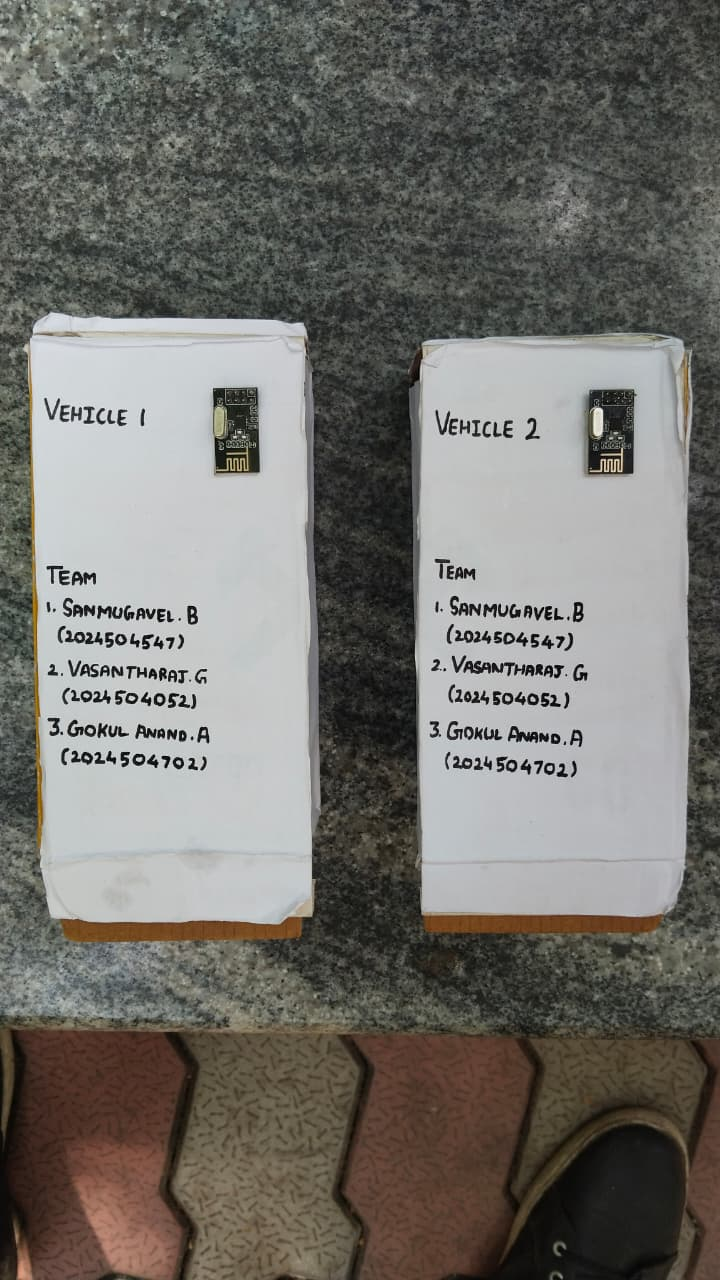
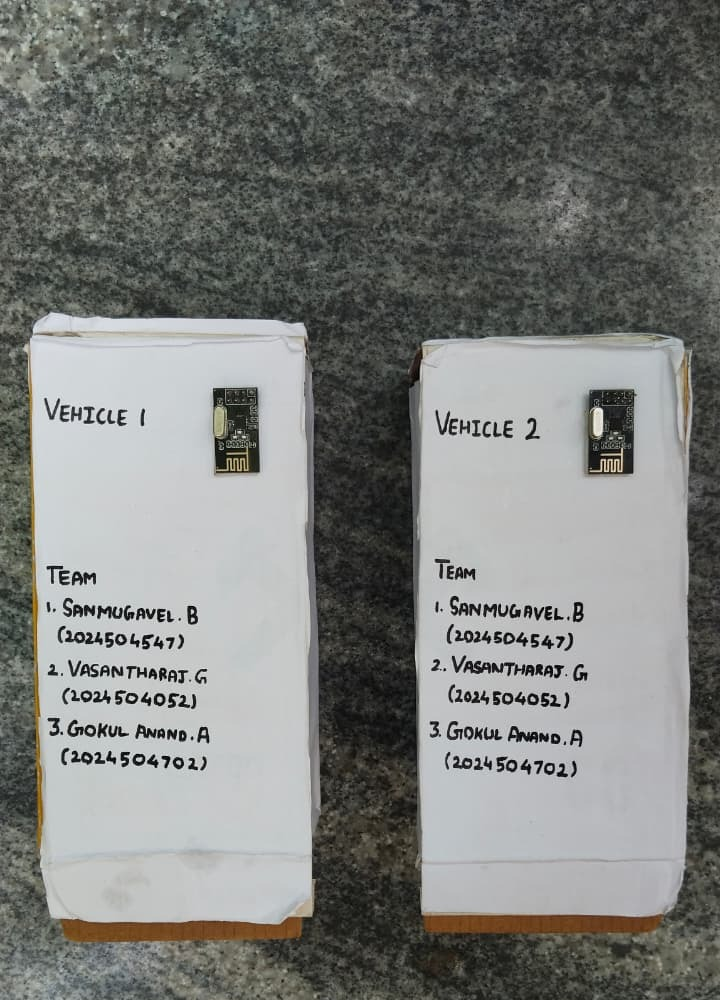
Tidy README photo gallery and crop closed-units-top photo

diff --git a/README.md b/README.md
@@ -38,19 +38,20 @@ On a hairpin bend, the hill hides each driver from the other. This project gives
 
 ### Project photos
 
-**Assembled units**
+<table>
+  <tr>
+    <td align="center"><img src="docs/images/hardware/closed-units-front.jpg" width="260" alt="Both closed units from the front"><br><sub>Front view</sub></td>
+    <td align="center"><img src="docs/images/hardware/closed-units-angle-1.jpg" width="260" alt="Closed units from an angle"><br><sub>Angle view</sub></td>
+    <td align="center"><img src="docs/images/hardware/closed-units-angle-2.jpg" width="260" alt="Closed units from a wider angle"><br><sub>Wider view</sub></td>
+  </tr>
+  <tr>
+    <td align="center"><img src="docs/images/hardware/closed-units-top.jpg" height="340" alt="Closed units from above with vehicle labels"><br><sub>Vehicle labels</sub></td>
+    <td align="center"><img src="docs/images/hardware/open-units-top-2.jpg" height="340" alt="Open units from above"><br><sub>Inside the units</sub></td>
+    <td align="center"><img src="docs/images/hardware/open-units-side-by-side.jpg" height="340" alt="Open units side by side"><br><sub>Wiring, side by side</sub></td>
+  </tr>
+</table>
 
-| Front | Top |
-|---|---|
-| ![Closed units from the front](docs/images/hardware/closed-units-front.jpg) | ![Closed units from above](docs/images/hardware/closed-units-top.jpg) |
-| ![Closed units from an angle](docs/images/hardware/closed-units-angle-1.jpg) | ![Closed units from another angle](docs/images/hardware/closed-units-angle-2.jpg) |
-
-**Inside the units**
-
-| | |
-|---|---|
-| ![Open units from above, view 1](docs/images/hardware/open-units-top-1.jpg) | ![Open units from above, view 2](docs/images/hardware/open-units-top-2.jpg) |
-| ![Open units from above, view 3](docs/images/hardware/open-units-top-3.jpg) | ![Open units side by side](docs/images/hardware/open-units-side-by-side.jpg) |
+More photos are in the [hardware folder](docs/images/hardware).
 
 ### Program flow
 
